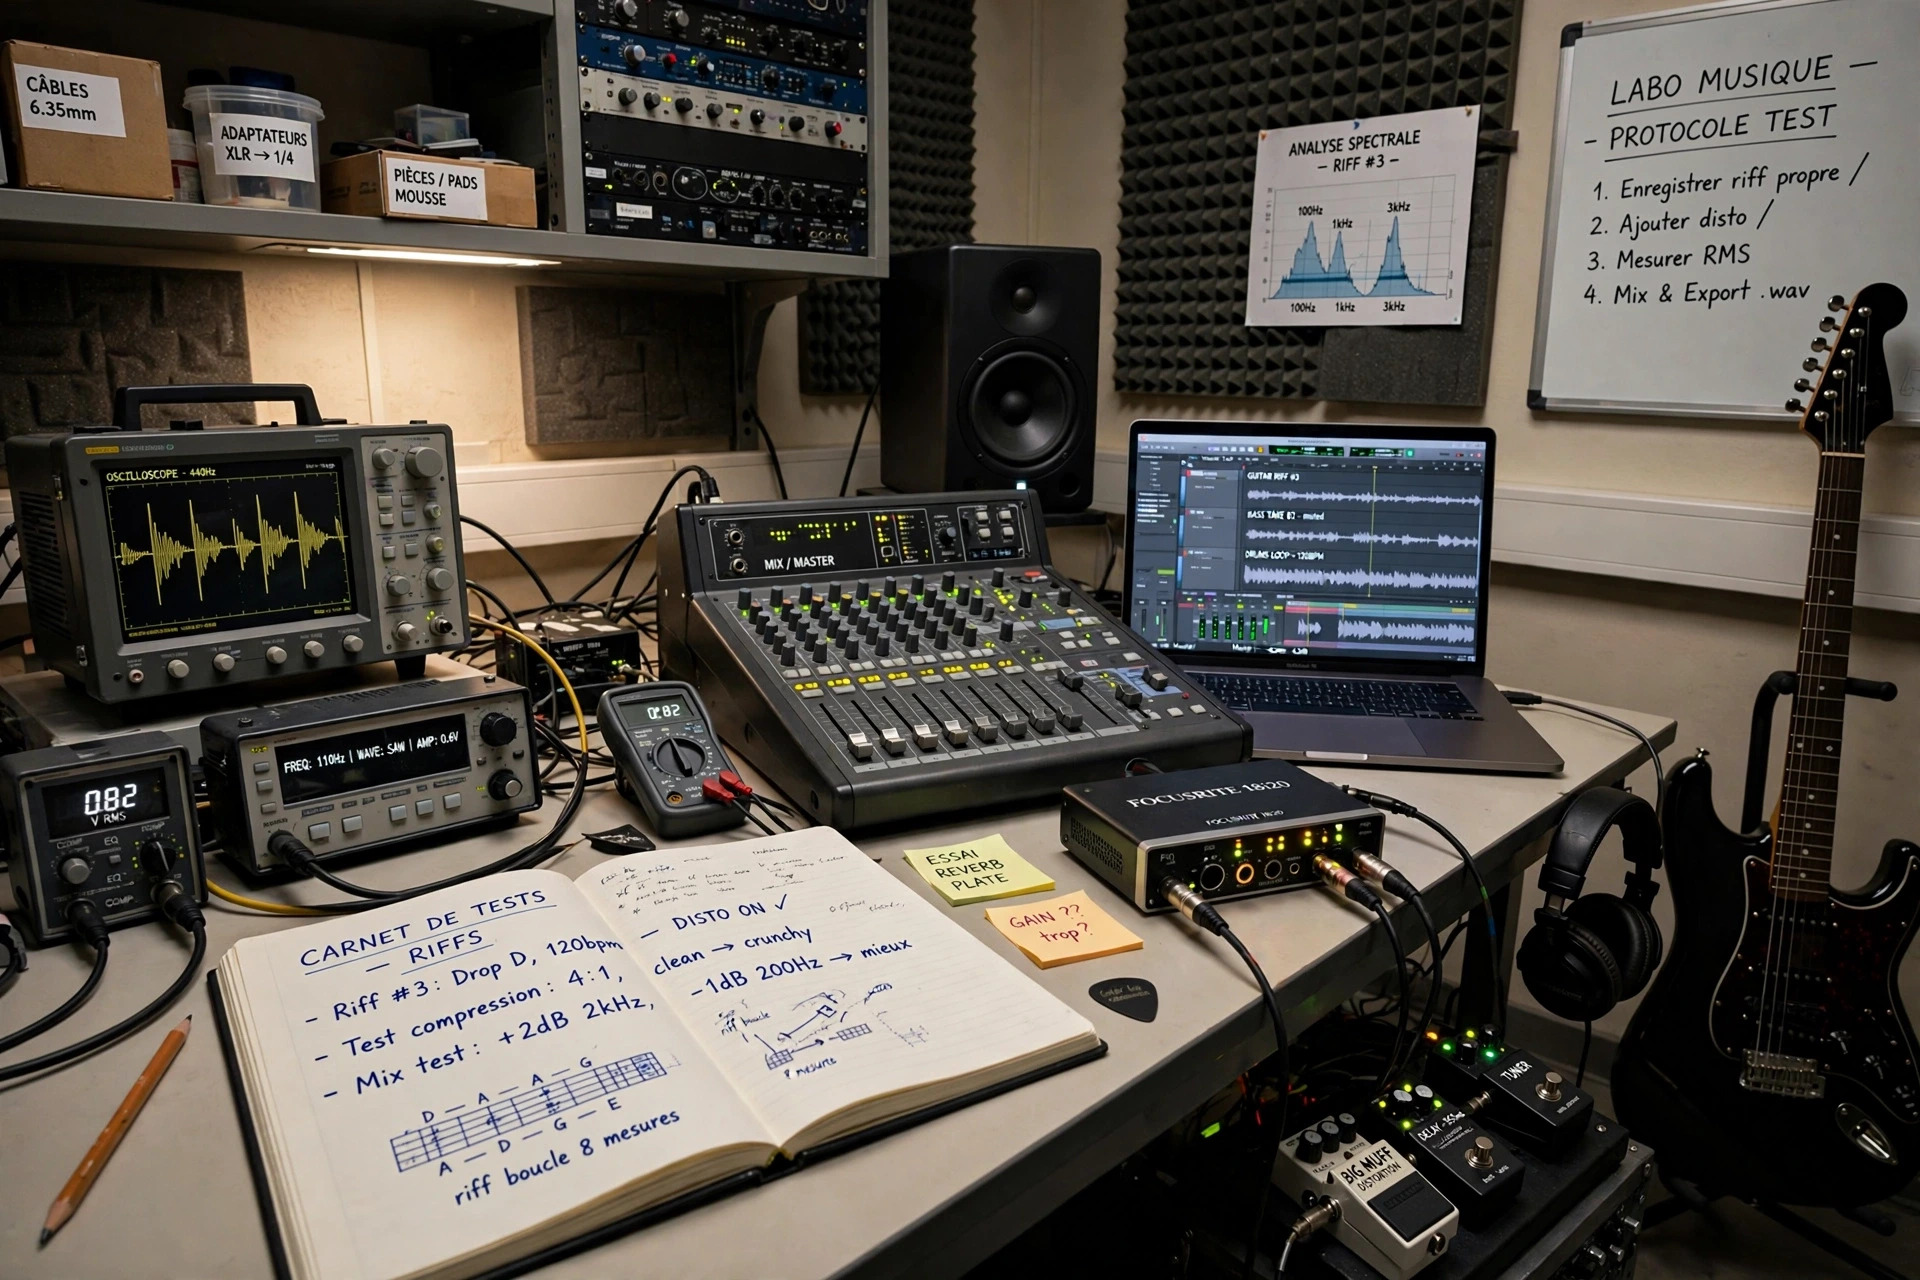
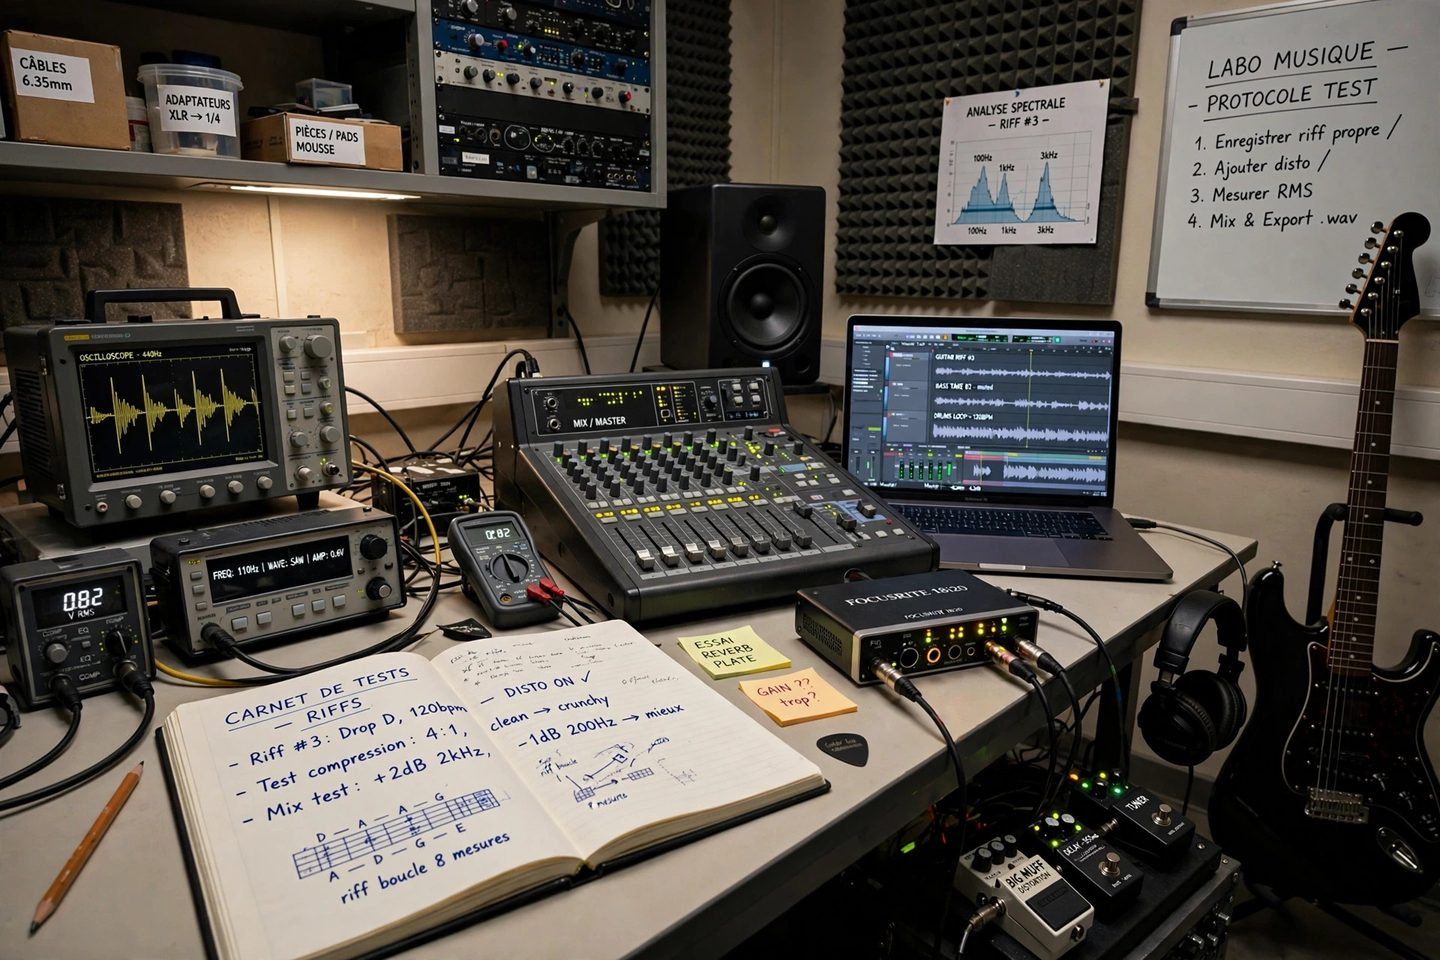
accueil : illustration Le Labo (images/labo.jpg) + object-fit cover sur les bandeaux de cartes

Changed region(s): [[0.2188, 0.7188, 0.25, 0.75]]

diff --git a/index.html b/index.html
@@ -202,11 +202,9 @@
                     </div>
                 </a>
 
-                <!-- Carte 2 : Concert Live -->
+                <!-- Carte 2 : Le Labo -->
                 <a href="labo.html" class="card" style="text-decoration: none; color: inherit; display: flex; flex-direction: column;">
-                    <div style="min-height: 180px; background: linear-gradient(135deg, #1e1e1e, #b91d1d); display: flex; align-items: center; justify-content: center;">
-                        <i class="fas fa-sliders" style="font-size: 3.4rem; color: #fff; opacity: 0.9;"></i>
-                    </div>
+                    <img src="images/labo.jpg" alt="Le Labo" class="card-img">
                     <div class="card-content">
                         <h3>Le Labo</h3>
                         <span class="card-meta">Aujourd'hui • Morceaux &amp; riffs • Audio</span>

diff --git a/style.css b/style.css
@@ -220,6 +220,7 @@ section {
 .card-img {
     height: 220px;
     width: 100%;
+    object-fit: cover;
     opacity: 0.75;
     transition: 0.4s;
 }
